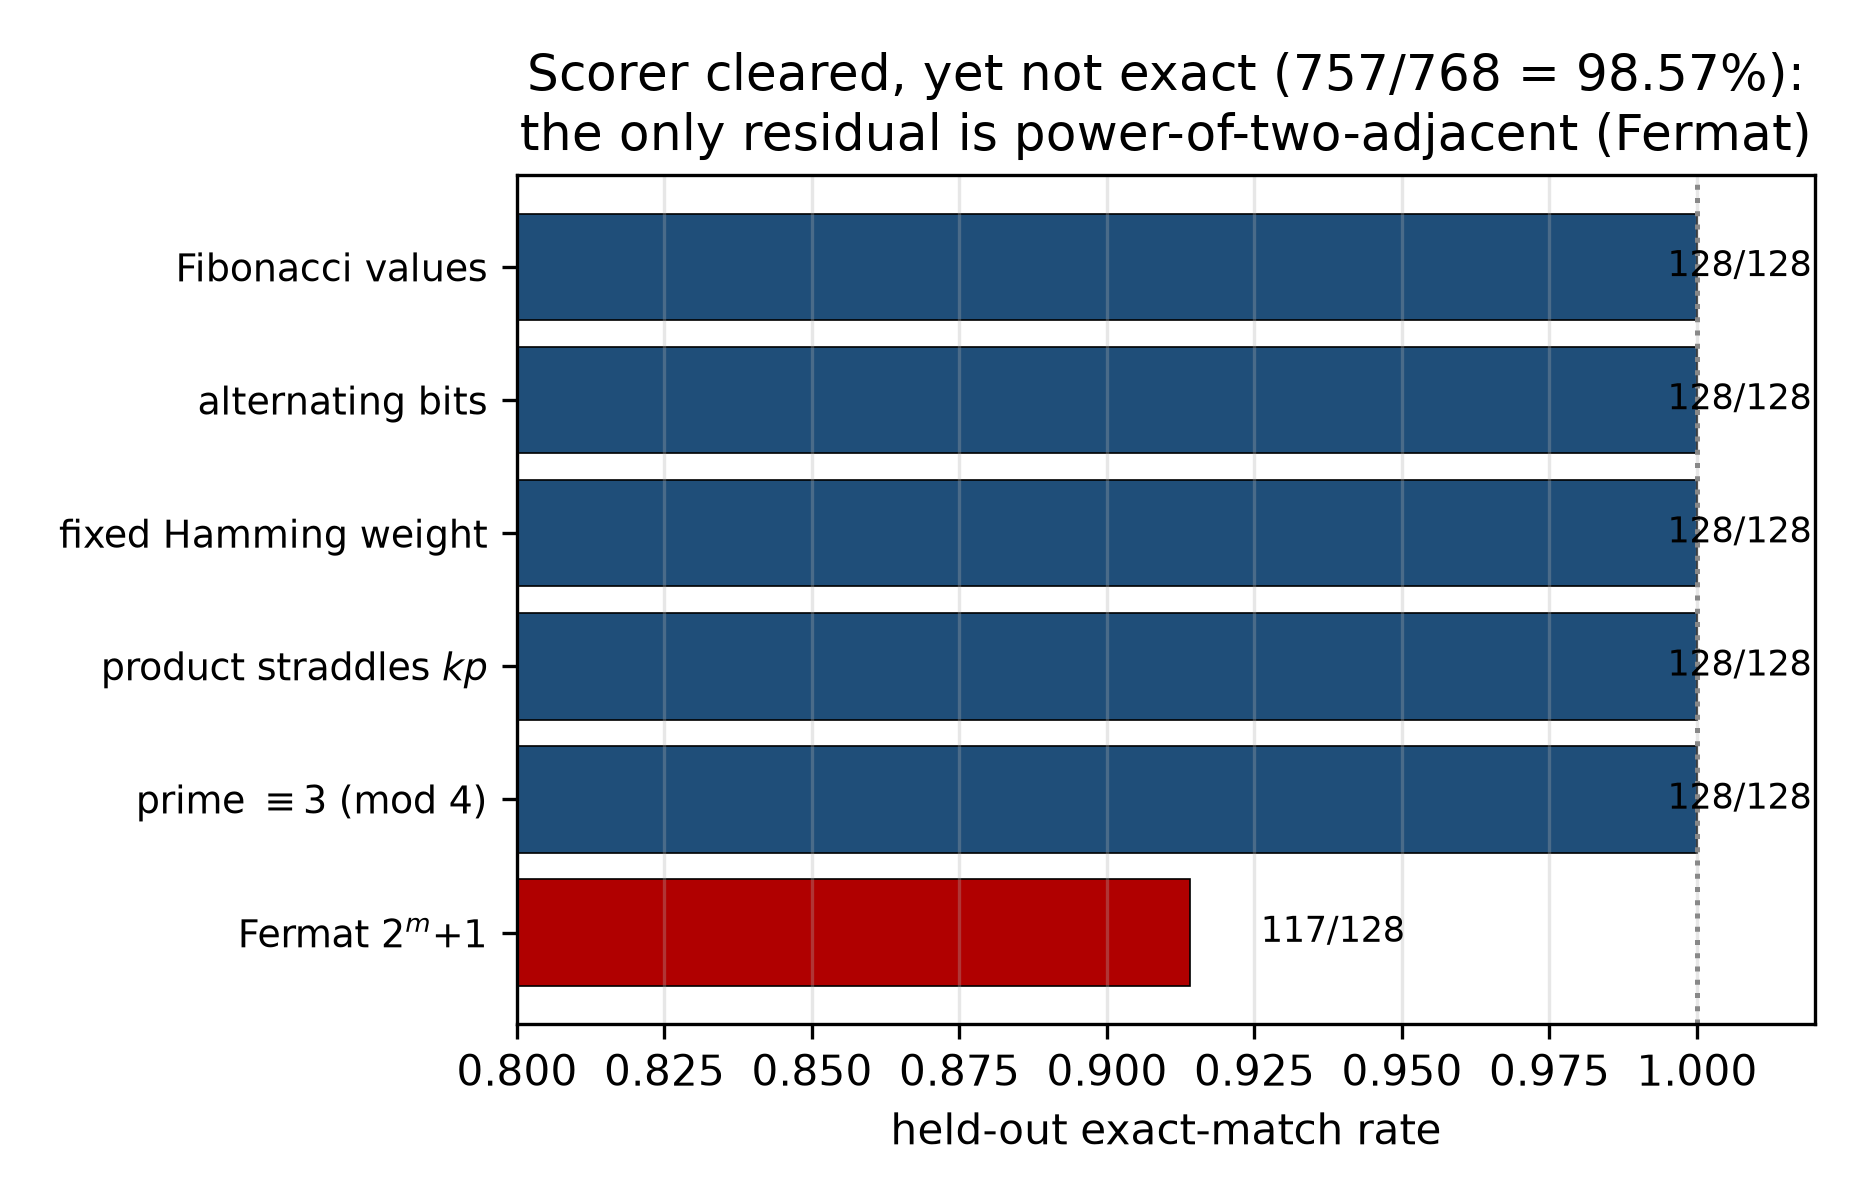
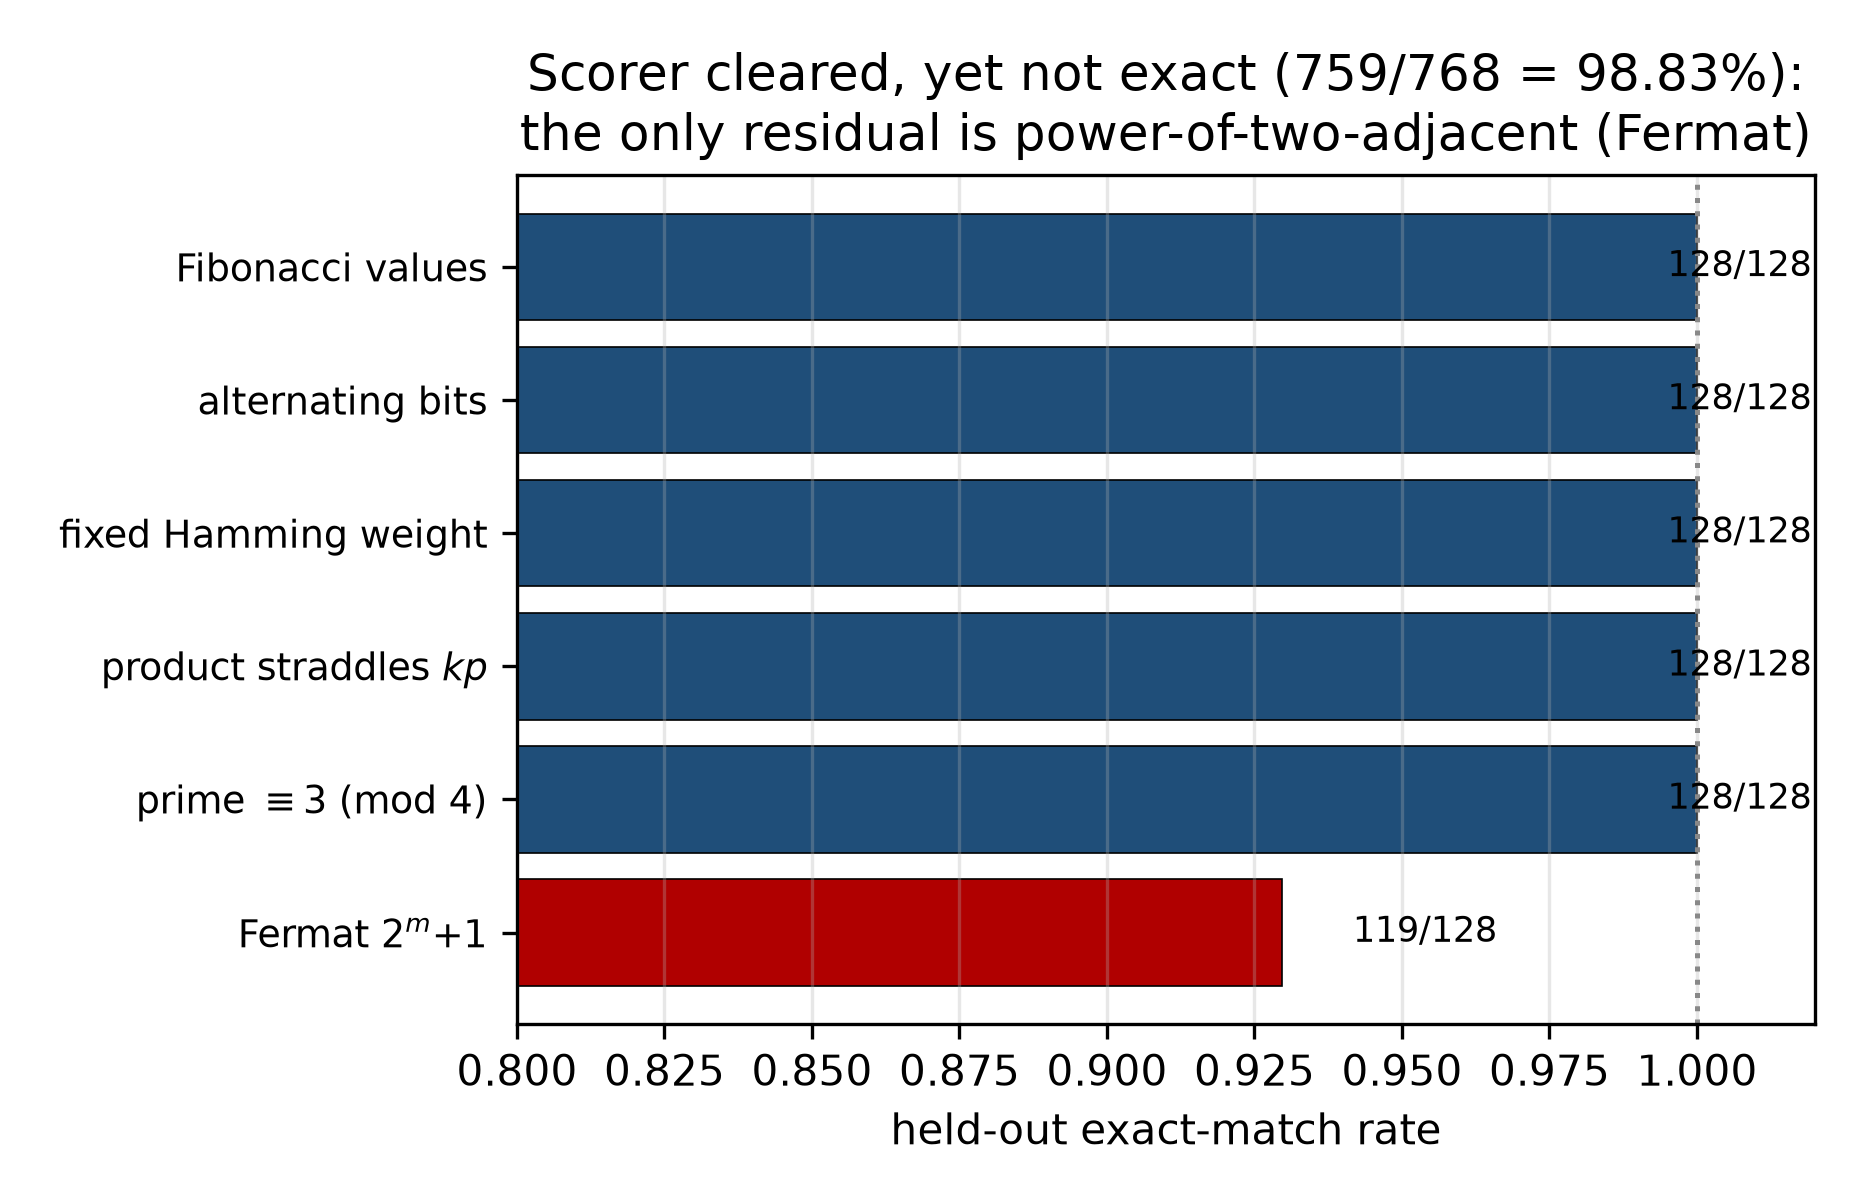
Fix held-out battery total in Table 3 and Figure 3 for internal consistency (v8: 759/768, 119/128, 98.83%)

Changed region(s): [[0.6237, 0.7092, 0.8108, 0.8325], [0.7172, 0.0308, 0.7484, 0.0925], [0.9043, 0.0617, 0.9355, 0.0925]]

diff --git a/paper/paper_neuralhorner.tex b/paper/paper_neuralhorner.tex
@@ -538,7 +538,7 @@ cell, not a scorer artifact.
     Prime $p \equiv 3 \pmod 4$                 & 128 & 128 & 1.000 \\
     Fermat $2^{2^n}+1$ (power-of-two-adjacent)   & 128 & 119 & 0.930 \\
     \midrule
-    Total                                      & 768 & 757 & 0.9857 \\
+    Total                                      & 768 & 759 & 0.9883 \\
     \bottomrule
   \end{tabular}
   \caption{Held-out adversarial battery. Families are disjoint from the training